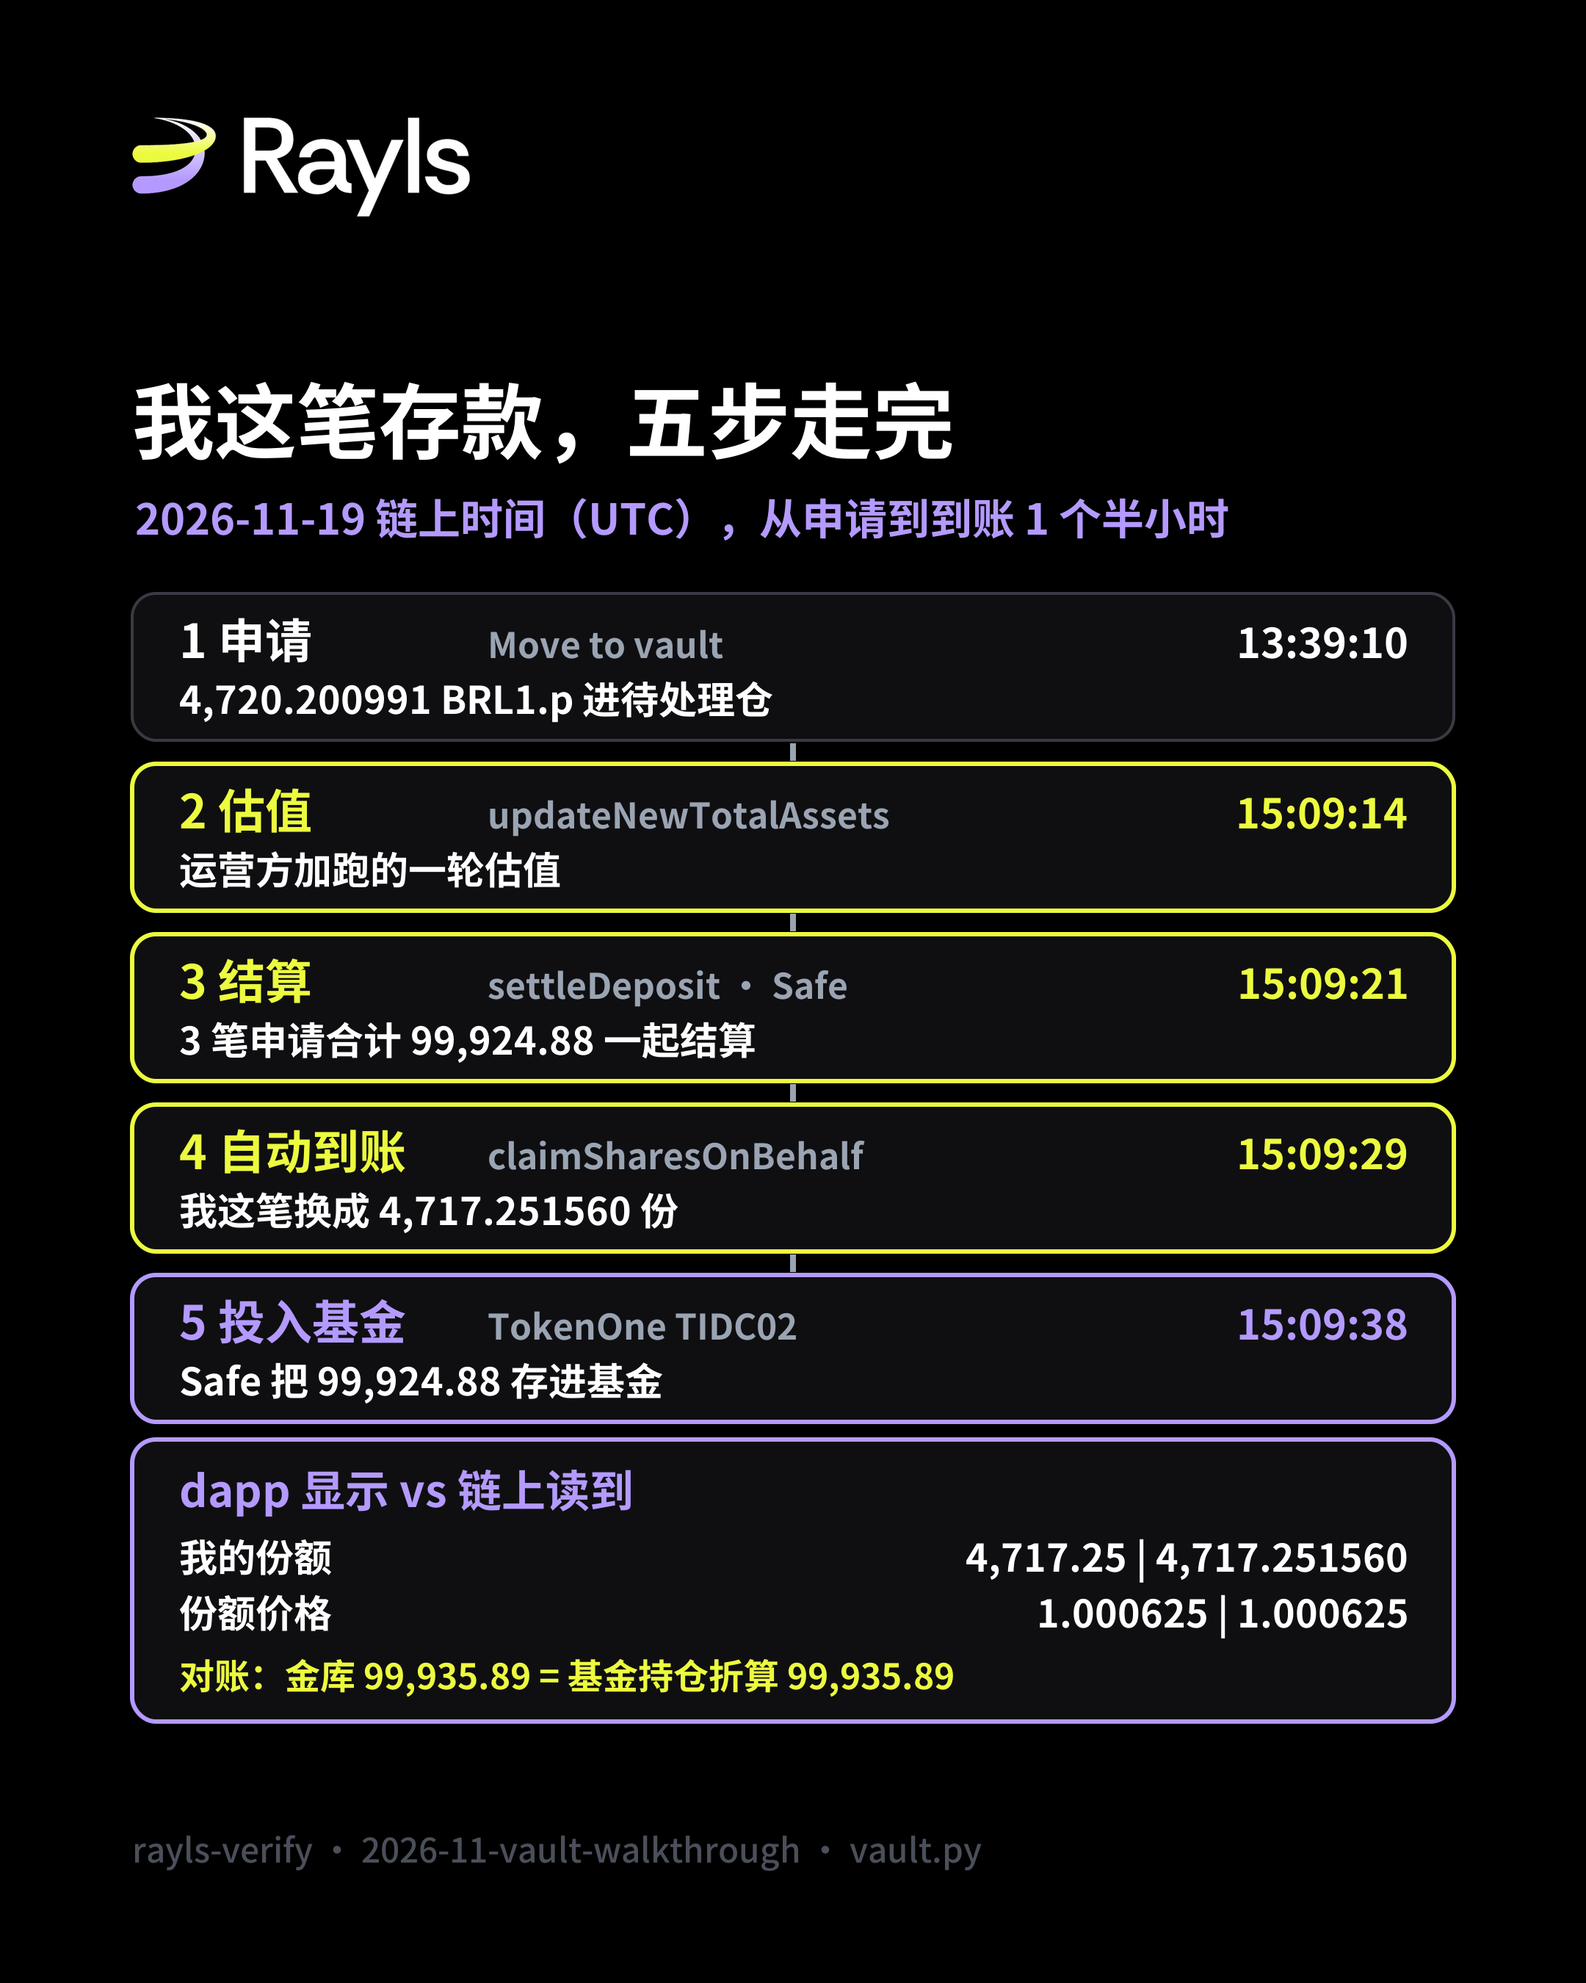
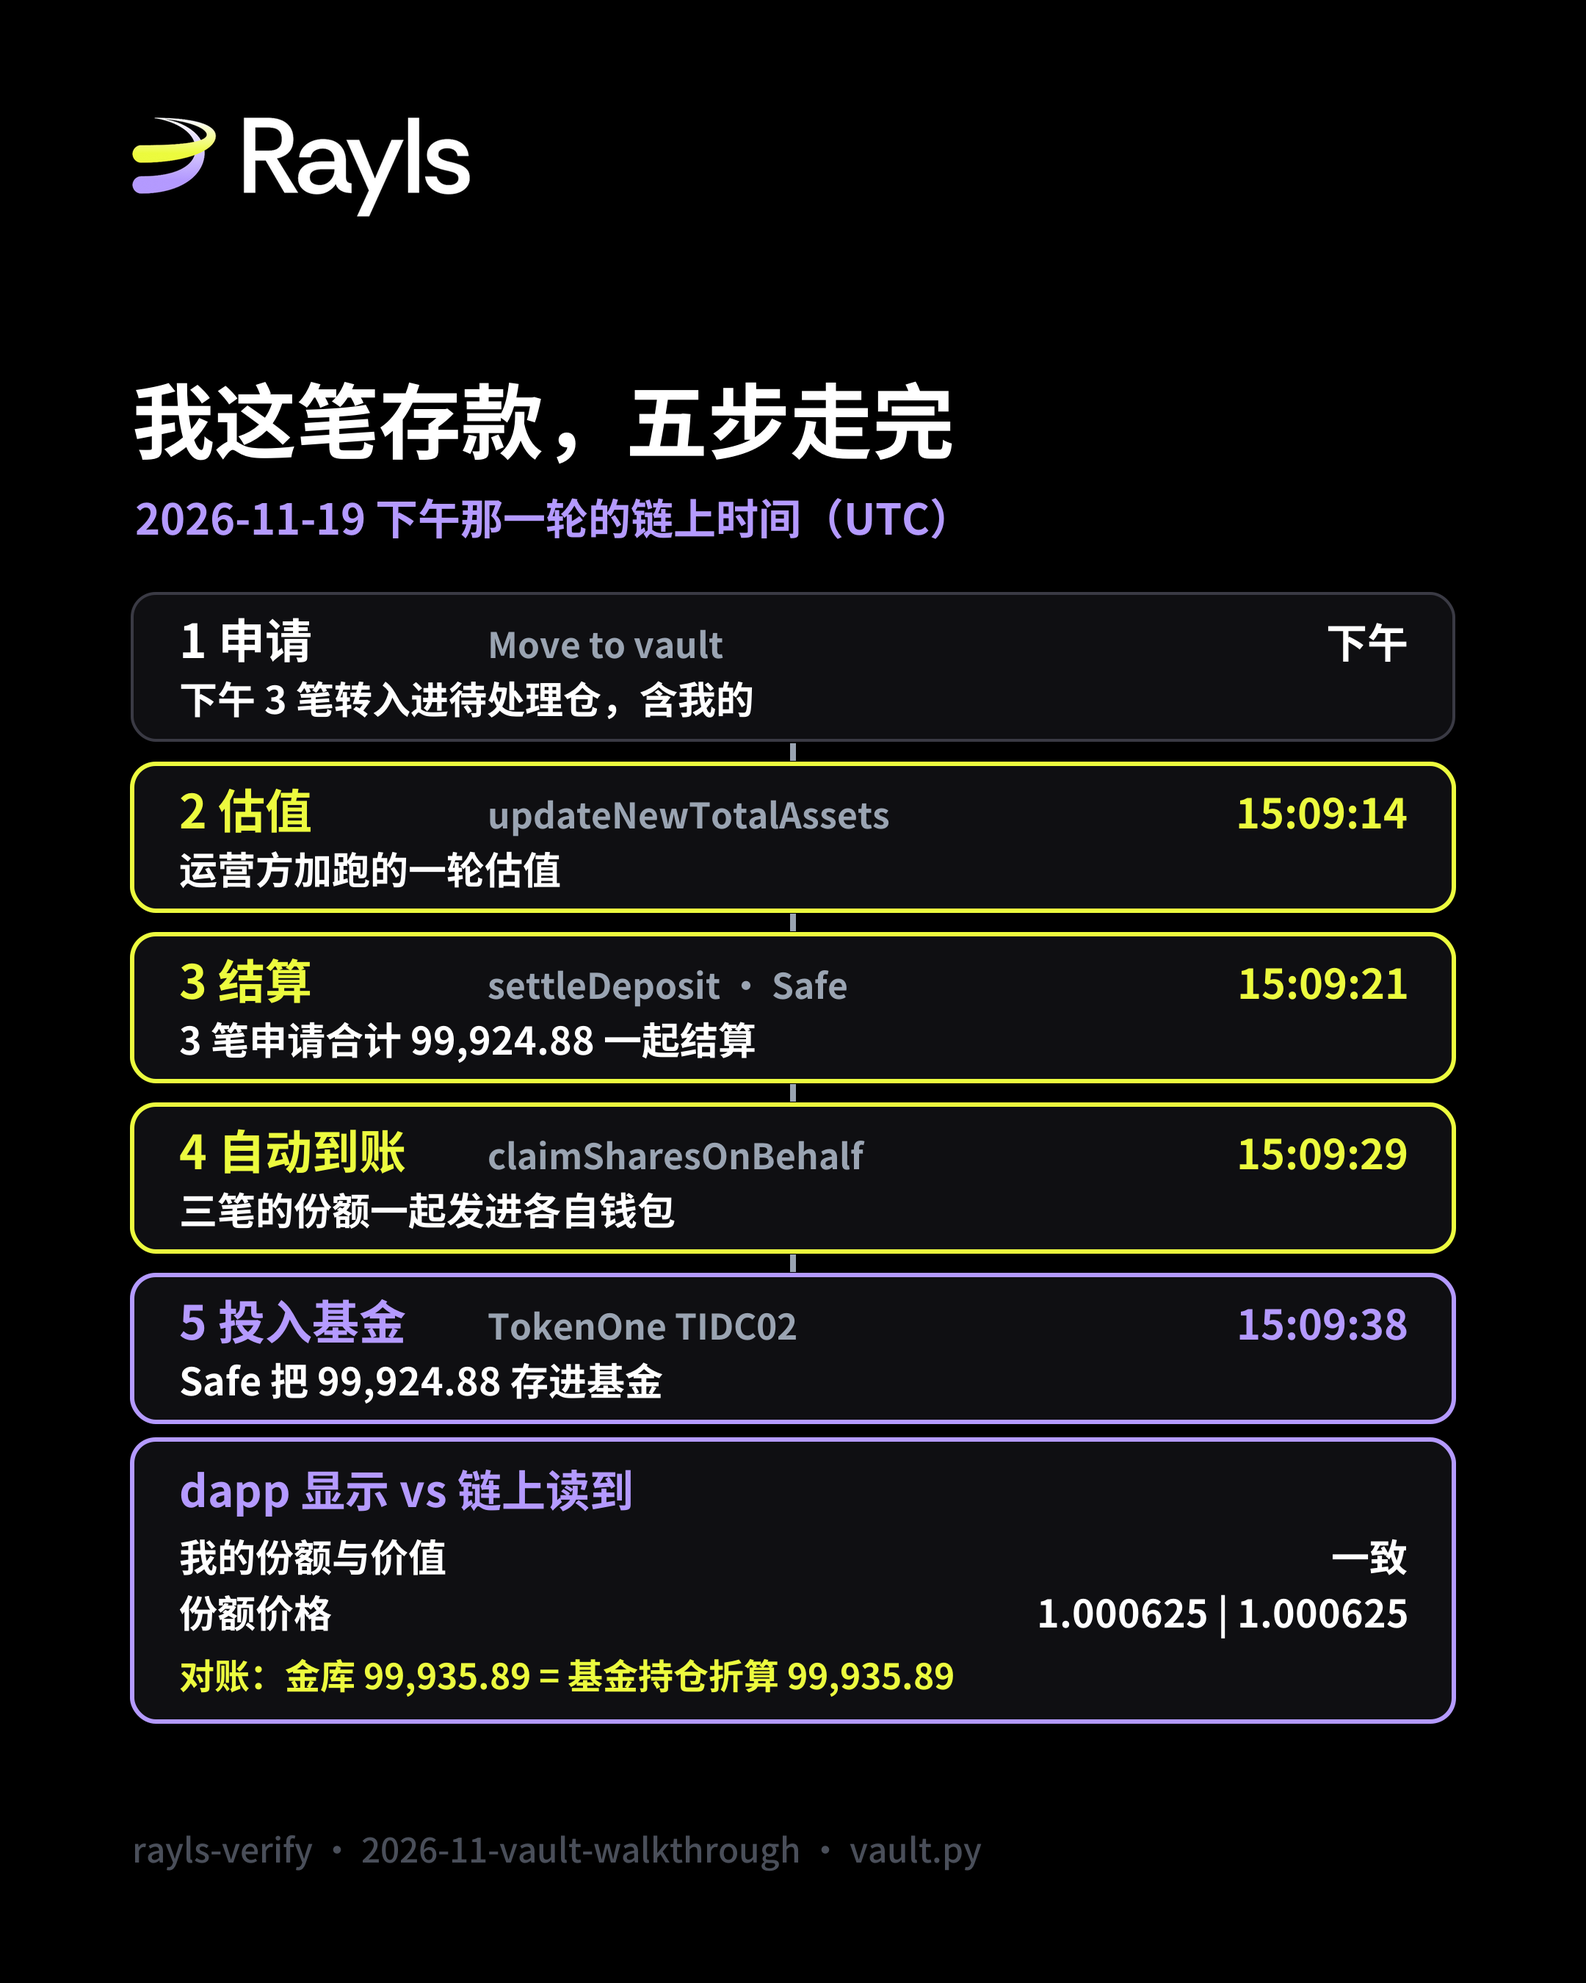
Vault walkthrough: do not publish the author's deposit amount or time
Claude-Session: https://claude.ai/code/session_013PNUc2KHJP1o9pE3kPjQG1

diff --git a/2026-11-vault-walkthrough/images/make_images.py b/2026-11-vault-walkthrough/images/make_images.py
@@ -11,17 +11,15 @@ fe = list(csv.DictReader(open(f"{D}/fund_events.csv")))
 OUT = __import__("os").path.dirname(__import__("os").path.abspath(__file__))
 hms = lambda t: t[11:19]
 
-# the user's request (request 3, 4,720.200991) and the round that settled it
-req = next(r for r in ev if r["event"] == "DepositRequest" and r["assets"] == "4720.200991")
-nav = next(r for r in ev if r["event"] == "NewTotalAssetsUpdated" and r["time_utc"] > req["time_utc"])
-st = next(r for r in ev if r["event"] == "SettleDeposit" and r["time_utc"] > req["time_utc"])
-cl = next(r for r in ev if r["event"] == "Deposit" and r["via"] == "claimSharesOnBehalf" and r["assets"] == "4720.200991")
+# the 19 Nov afternoon round that settled the author's request (amount and time not shown on purpose)
+st = next(r for r in ev if r["event"] == "SettleDeposit" and r["time_utc"].startswith("2026-11-19 15:"))
+nav = [r for r in ev if r["event"] == "NewTotalAssetsUpdated" and r["time_utc"] <= st["time_utc"]][-1]
+reqs = [r for r in ev if r["event"] == "DepositRequest" and nav["time_utc"][:10] == r["time_utc"][:10] and r["time_utc"] < nav["time_utc"] and r["time_utc"] > "2026-11-19 13:00:10"]
+cl = [r for r in ev if r["event"] == "Deposit" and r["via"] == "claimSharesOnBehalf" and r["time_utc"] > st["time_utc"]][0]
 inv = next(r for r in fe if r["event"] == "Deposit" and r["time_utc"] > st["time_utc"])
-mins = lambda a, b: (int(b[11:13]) * 60 + int(b[14:16])) - (int(a[11:13]) * 60 + int(a[14:16]))
-wait = mins(req["time_utc"], st["time_utc"])
 
 # ---------------- cover
-cards = [(f"{wait // 60} 小时 {wait % 60} 分", "从申请到结算（我这笔）", bk.YELLOW),
+cards = [("不到 2 小时", "从申请到结算（我这笔）", bk.YELLOW),
          ("8 秒", "结算后份额自动进钱包", bk.YELLOW),
          (f"差额 {abs(c['difference']):.0f}", "金库总资产 = 基金持仓折算", bk.PURPLE)]
 W, H, y0, gap, M0 = 460, 214, 318, 40, 80
@@ -33,16 +31,16 @@ for i, (big, small, col) in enumerate(cards):
     body += bk.text(x + 32, y0 + 166, small, bk.WHITE, 26, 700)
 bk.render_cover(f"{OUT}/vault-cover.png",
                 title="存进 RWA 金库的钱去了哪？",
-                subtitle="跟着自己一笔将近 4,720 BRL1.p 的存款，走完 Rayls TokenOne 金库 · 2026-11-19",
+                subtitle="跟着自己的一笔存款，走完 Rayls TokenOne 金库 · 2026-11-19",
                 body=body, footnote="先写预测再看结算：4 条对了 3 条 · 代码与每小时读数全部公开",
                 logo_path=LOGO, title_size=54)
 
 # ---------------- body: my deposit's path, 19 Nov times
 steps = [
-    ("1 申请", "Move to vault", "4,720.200991 BRL1.p 进待处理仓", hms(req["time_utc"]), bk.WHITE),
+    ("1 申请", "Move to vault", f"下午 {len(reqs)} 笔转入进待处理仓，含我的", "下午", bk.WHITE),
     ("2 估值", "updateNewTotalAssets", "运营方加跑的一轮估值", hms(nav["time_utc"]), bk.YELLOW),
     ("3 结算", "settleDeposit · Safe", f"3 笔申请合计 {float(st['assets']):,.2f} 一起结算", hms(st["time_utc"]), bk.YELLOW),
-    ("4 自动到账", "claimSharesOnBehalf", f"我这笔换成 {float(cl['shares']):,.6f} 份", hms(cl["time_utc"]), bk.YELLOW),
+    ("4 自动到账", "claimSharesOnBehalf", "三笔的份额一起发进各自钱包", hms(cl["time_utc"]), bk.YELLOW),
     ("5 投入基金", "TokenOne TIDC02", f"Safe 把 {float(inv['assets']):,.2f} 存进基金", hms(inv["time_utc"]), bk.PURPLE),
 ]
 y, b = 404, ""
@@ -60,15 +58,15 @@ for i, (name, fn, desc, t, col) in enumerate(steps):
 y += 12
 b += bk.rr(90, y, 900, 192, 16, bk.BOX, bk.PURPLE, 3)
 b += bk.text(122, y + 46, "dapp 显示 vs 链上读到", bk.PURPLE, 30, 800)
-b += bk.text(122, y + 90, "我的份额", bk.WHITE, 26, 700)
-b += bk.text(958, y + 90, f"4,717.25  |  {float(cl['shares']):,.6f}", bk.WHITE, 26, 800, "end")
+b += bk.text(122, y + 90, "我的份额与价值", bk.WHITE, 26, 700)
+b += bk.text(958, y + 90, "一致", bk.WHITE, 26, 800, "end")
 b += bk.text(122, y + 128, "份额价格", bk.WHITE, 26, 700)
 b += bk.text(958, y + 128, f"1.000625  |  {s['vault']['share_price']:.6f}", bk.WHITE, 26, 800, "end")
 b += bk.text(122, y + 170, f"对账：金库 {c['vault_total_assets']:,.2f} = 基金持仓折算 {c['safe_position_at_fund_price']:,.2f}", bk.YELLOW, 24, 800)
 bk.render_body(f"{OUT}/vault-body.png",
                title="我这笔存款，五步走完",
-               subtitle="2026-11-19 链上时间（UTC），从申请到到账 1 个半小时",
+               subtitle="2026-11-19 下午那一轮的链上时间（UTC）",
                body=b, footnote="",
                source="rayls-verify · 2026-11-vault-walkthrough · vault.py",
                logo_path=LOGO)
-print("ok", wait)
+print("ok", len(reqs))

diff --git a/2026-11-vault-walkthrough/README.md b/2026-11-vault-walkthrough/README.md
@@ -8,7 +8,7 @@
 
 **Question:** When you put BRL1.p into the Rayls TokenOne pilot vault, where does the money go, when does it turn into vault shares, what sets the share price, and what decides when you can take it out?
 
-**Case:** one real deposit of 4,720.200991 BRL1.p, moved into the vault from the launch programme with the dapp's "Move to vault" button on 2026-11-19 13:39:10 UTC (request id 3). The depositor's address is not published here; `check_my_request.py` lets anyone check their own.
+**Case:** the author's own deposit, moved into the vault from the launch programme with the dapp's "Move to vault" button on the afternoon of 2026-11-19 (UTC). Its amount, time and address are deliberately not published; `check_my_request.py` lets anyone check their own.
 
 Everything is read-only: public RPC calls and the public explorer API. No wallet, no key. [`.github/workflows/vault-walkthrough-monitor.yml`](../.github/workflows/vault-walkthrough-monitor.yml) runs `vault.py` every hour (settlements are run by the operator, not on a fixed clock) and commits the results, so each run is a dated reading in git history. Depositor addresses and depositor transaction hashes are never written; operator transactions keep their hashes.
 
@@ -31,7 +31,7 @@ Everything is read-only: public RPC calls and the public explorer API. No wallet
 4. *Claim.* 8 seconds later, at 13:00:24, the operator called `claimSharesOnBehalf`, which put the shares in the depositor's wallet. Nobody had to press a claim button.
 5. *Investment.* The Safe then deposits the BRL1.p into layer 2 (18 Nov 18:24, 19 Nov 13:00:31 UTC).
 
-A request made after a day's valuation waits for the next one. Request 3 (4,720.200991 BRL1.p, 13:39:10 UTC) came 39 minutes after the 19 Nov valuation; at 14:25 UTC it was still pending, with 99,548.98 BRL1.p in the silo in total.
+A request made after a valuation waits for the next one. The author's request came after the 19 Nov 13:00 valuation; at 14:25 UTC it was still pending, with 99,548.98 BRL1.p in the silo in total.
 
 **Layer 2: the TokenOne fund.** "TokenOne TIDC02" (`TKONE02`) at `0x870c2c4cfAf895f55163385813164E5808AE7029`, an ERC-4626 `RwaVaultV3`, source verified on the Rayls explorer. Its own source comment says: total assets is the idle balance in the contract, which anyone can verify, plus deployed capital, a number reported by an oracle; "that second part is the product's trust assumption and is made explicit here, not hidden".
 
@@ -43,15 +43,15 @@ A request made after a day's valuation waits for the next one. Request 3 (4,720.
 
 ### Predictions (committed 2026-11-19 14:27 UTC in b68f9e7, before the settlement)
 
-1. Request 3 settles at the next daily valuation, expected around 2026-11-20 13:00 UTC.
-2. It becomes about 4,720.2 ÷ (the share price then) shares, about 4,717 at today's price.
+1. The author's request settles at the next daily valuation, expected around 2026-11-20 13:00 UTC.
+2. It becomes (amount ÷ the share price then) shares.
 3. The shares arrive in the depositor's wallet without a claim click, within a minute of settlement.
 4. Afterwards the vault's total assets still equals the Safe's TKONE02 at the fund price plus any idle BRL1.p.
 
 ### Results (reading 2026-11-20 14:15 UTC): three held, one missed
 
-1. **Missed.** The operator ran an extra valuation and settlement at 2026-11-19 15:09:14 / 15:09:21 UTC, 90 minutes after request 3 and almost a day earlier than predicted. It settled three move-to-vault requests made that afternoon, 99,924.879672 BRL1.p in total. Settlement is run by the operator when needed, not on a fixed clock: four rounds from 18 to 20 Nov (18 Nov 12:28 and 13:00, 19 Nov 13:00 and 15:09), none on 20 Nov by 14:15 UTC, when 155,345.599318 BRL1.p was waiting in the silo.
-2. **Held.** Request 3 became 4,717.251560 shares at 1.000625 (4,720.200991 ÷ 4,717.251560 = 1.000625). The dapp shows 4,717.25 shares worth 4,720.2 BRL1.p.
+1. **Missed.** The operator ran an extra valuation and settlement at 2026-11-19 15:09:14 / 15:09:21 UTC, almost a day earlier than predicted. It settled the three move-to-vault requests made that afternoon, the author's among them, 99,924.879672 BRL1.p in total. Settlement is run by the operator when needed, not on a fixed clock: four rounds from 18 to 20 Nov (18 Nov 12:28 and 13:00, 19 Nov 13:00 and 15:09), none on 20 Nov by 14:15 UTC, when 155,345.599318 BRL1.p was waiting in the silo.
+2. **Held.** All three requests became shares at 1.000625 (assets ÷ shares = 1.000625 for each, see `data/vault_events.csv`). The dapp's position page shows the same share count and value as the chain for the author's wallet.
 3. **Held.** `claimSharesOnBehalf` at 15:09:29 put the shares of all three requests in the depositors' wallets, 8 seconds after settlement, as in the 13:00 round.
 4. **Held.** The Safe deposited the 99,924.879672 BRL1.p into TKONE02 at 15:09:38 for 99,558.357788 shares. On 20 Nov 14:15 UTC the Safe held 99,569.327657 TKONE02 = 99,935.889927 BRL1.p at 1.003681, equal to the vault's total assets 99,935.889927 (difference 0.000000). The fund itself: 99,935.883672 idle on-chain + 10.054179 deployed (reported 2026-11-20 11:46:10 UTC).
 
@@ -74,7 +74,7 @@ Read directly: every balance, event, time, fee rate, guard setting and the recon
 
 **问题：** 把 BRL1.p 存进 Rayls 的 TokenOne 试点金库后，钱去了哪里、什么时候变成金库份额、份额价格由什么决定、什么时候能取出来？
 
-**案例：** 一笔真实存款 4,720.200991 BRL1.p，2026-11-19 13:39:10 UTC 在 dapp 上点"Move to vault"从启动计划转入金库（请求编号 3）。这里不公开存款人地址；任何人都可以用 `check_my_request.py` 查自己的。
+**案例：** 作者自己的一笔存款，2026-11-19（UTC）下午在 dapp 上点"Move to vault"从启动计划转入金库。金额、时间和地址都刻意不公开；任何人都可以用 `check_my_request.py` 查自己的。
 
 全部只读：公开 RPC 和公开的区块浏览器接口，不需要钱包和私钥。工作流 [`.github/workflows/vault-walkthrough-monitor.yml`](../.github/workflows/vault-walkthrough-monitor.yml) 每小时跑一次 `vault.py` 并提交结果（结算由运营方按需执行，不是固定钟点）。不记录任何存款人地址和存款人的交易哈希；运营方的交易保留哈希。
 
@@ -88,7 +88,7 @@ Read directly: every balance, event, time, fee rate, guard setting and the recon
 4. *领取。* 8 秒后（13:00:24）运营方调用 `claimSharesOnBehalf`，份额直接进了存款人钱包，不需要自己点领取。
 5. *投资。* 之后 Safe 把 BRL1.p 存进第二层（11-18 18:24、11-19 13:00:31 UTC）。
 
-在当天估值之后才提交的申请，要等下一次。请求 3（4,720.200991 BRL1.p，13:39:10 UTC）比 19 日的估值晚 39 分钟；14:25 UTC 时仍在等待，待处理仓里合计 99,548.98 BRL1.p。
+在估值之后才提交的申请，要等下一次。作者的申请在 19 日 13:00 的估值之后提交；14:25 UTC 时仍在等待，待处理仓里合计 99,548.98 BRL1.p。
 
 **第二层：TokenOne 基金。** "TokenOne TIDC02"（`TKONE02`），地址 `0x870c2c4cfAf895f55163385813164E5808AE7029`，ERC-4626 合约 `RwaVaultV3`，源码已在 Rayls 浏览器验证。源码注释写明：总资产 = 合约里的闲置余额（任何人可验证）+ 已投出的资本（由预言机报告的数字），"第二部分是这个产品的信任前提，在这里明确写出，而不是藏起来"。
 
@@ -100,15 +100,15 @@ Read directly: every balance, event, time, fee rate, guard setting and the recon
 
 ### 预测（2026-11-19 14:27 UTC 提交于 b68f9e7，结算之前）
 
-1. 请求 3 在下一次每日估值时结算，预计 2026-11-20 13:00 UTC 左右。
-2. 换成约 4,720.2 ÷ 届时份额价格 份，按今天价格约 4,717 份。
+1. 作者的申请在下一次每日估值时结算，预计 2026-11-20 13:00 UTC 左右。
+2. 换成（金额 ÷ 届时份额价格）份。
 3. 份额在结算后一分钟内自动到账，不需要点领取。
 4. 结算后，金库总资产仍等于 Safe 持有的 TKONE02 按基金价格折算，再加上闲置的 BRL1.p。
 
 ### 结果（读数 2026-11-20 14:15 UTC）：对了三条，错了一条
 
-1. **错了。** 运营方在 2026-11-19 15:09:14 / 15:09:21 UTC 加跑了一轮估值和结算，离请求 3 只有 90 分钟，比预测早了将近一天。这一轮结算了当天下午的三笔转入，合计 99,924.879672 BRL1.p。结算由运营方按需执行，不是固定钟点：18 到 20 日共 4 轮（18 日 12:28、13:00，19 日 13:00、15:09），20 日到 14:15 还没有结算，此时待处理仓里有 155,345.599318 BRL1.p。
-2. **对了。** 请求 3 换成 4,717.251560 份，价格 1.000625（4,720.200991 ÷ 4,717.251560 = 1.000625）。dapp 显示 4,717.25 份、价值 4,720.2 BRL1.p。
+1. **错了。** 运营方在 2026-11-19 15:09:14 / 15:09:21 UTC 加跑了一轮估值和结算，比预测早了将近一天。这一轮结算了当天下午的三笔转入（含作者那笔），合计 99,924.879672 BRL1.p。结算由运营方按需执行，不是固定钟点：18 到 20 日共 4 轮（18 日 12:28、13:00，19 日 13:00、15:09），20 日到 14:15 还没有结算，此时待处理仓里有 155,345.599318 BRL1.p。
+2. **对了。** 三笔都按 1.000625 换成份额（每笔 金额 ÷ 份额 = 1.000625，见 `data/vault_events.csv`）。作者钱包在 dapp 持仓页上显示的份额和价值与链上一致。
 3. **对了。** 15:09:29 `claimSharesOnBehalf` 把三笔的份额发进各自钱包，结算后 8 秒，和 13:00 那轮一样。
 4. **对了。** 15:09:38 Safe 把 99,924.879672 BRL1.p 存进 TKONE02，换回 99,558.357788 份。20 日 14:15 Safe 持有 99,569.327657 TKONE02，按 1.003681 合 99,935.889927 BRL1.p，等于金库总资产 99,935.889927（差额 0.000000）。基金本身：链上闲置 99,935.883672 + 已投出 10.054179（2026-11-20 11:46:10 UTC 报告）。
 
